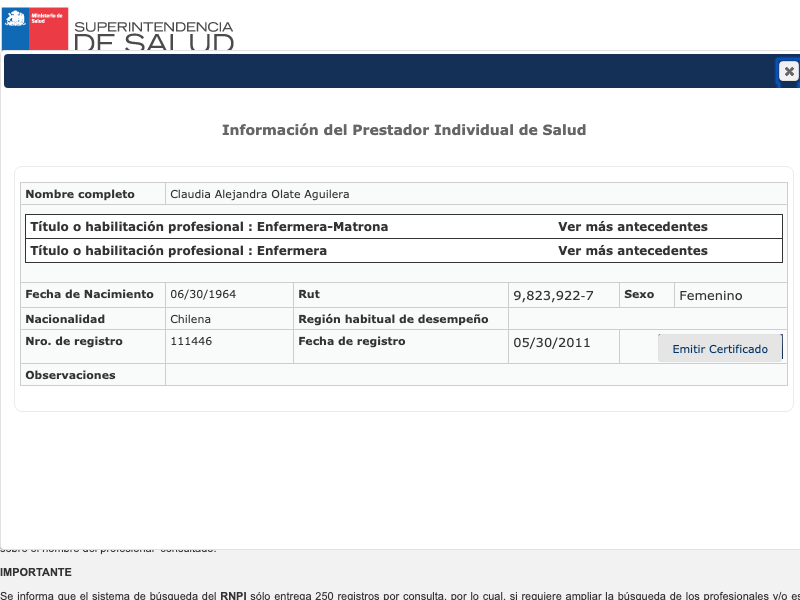
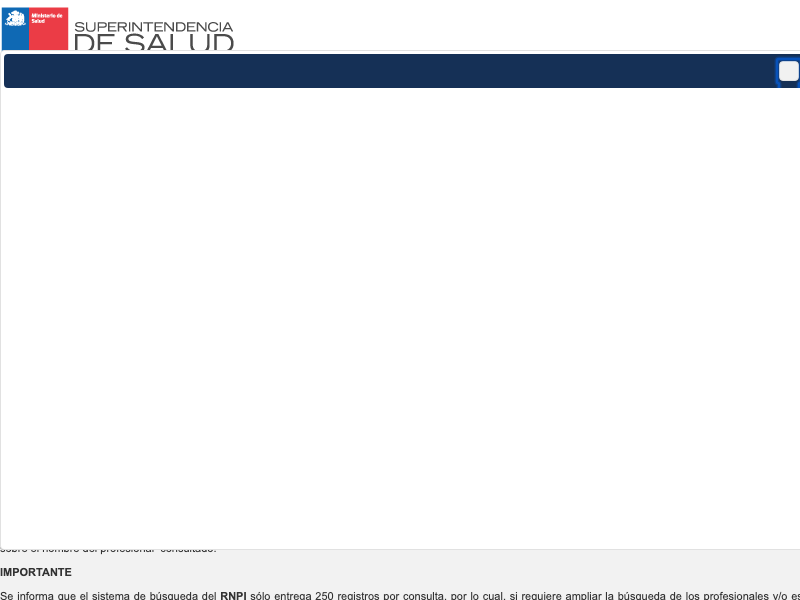
add seconds to continue pupeeter

diff --git a/src/routes/users.js b/src/routes/users.js
@@ -91,11 +91,11 @@ router.get('/getInfoNew', async (req, res) => {
 
             await page.waitForSelector('.showDoc');
             await page.click('.showDoc');
-            await page.waitForSelector('#certPres');
+            // await page.waitForSelector('#certPres');
             // await page.focus('#certPres');
             await page.screenshot({ path: 'certificado.png' });
 
-
+            page.waitFor(4000);
             const data = await page.$$eval('table tr td', tds => tds.map((td) => {
                 return td.innerText;
             }));
